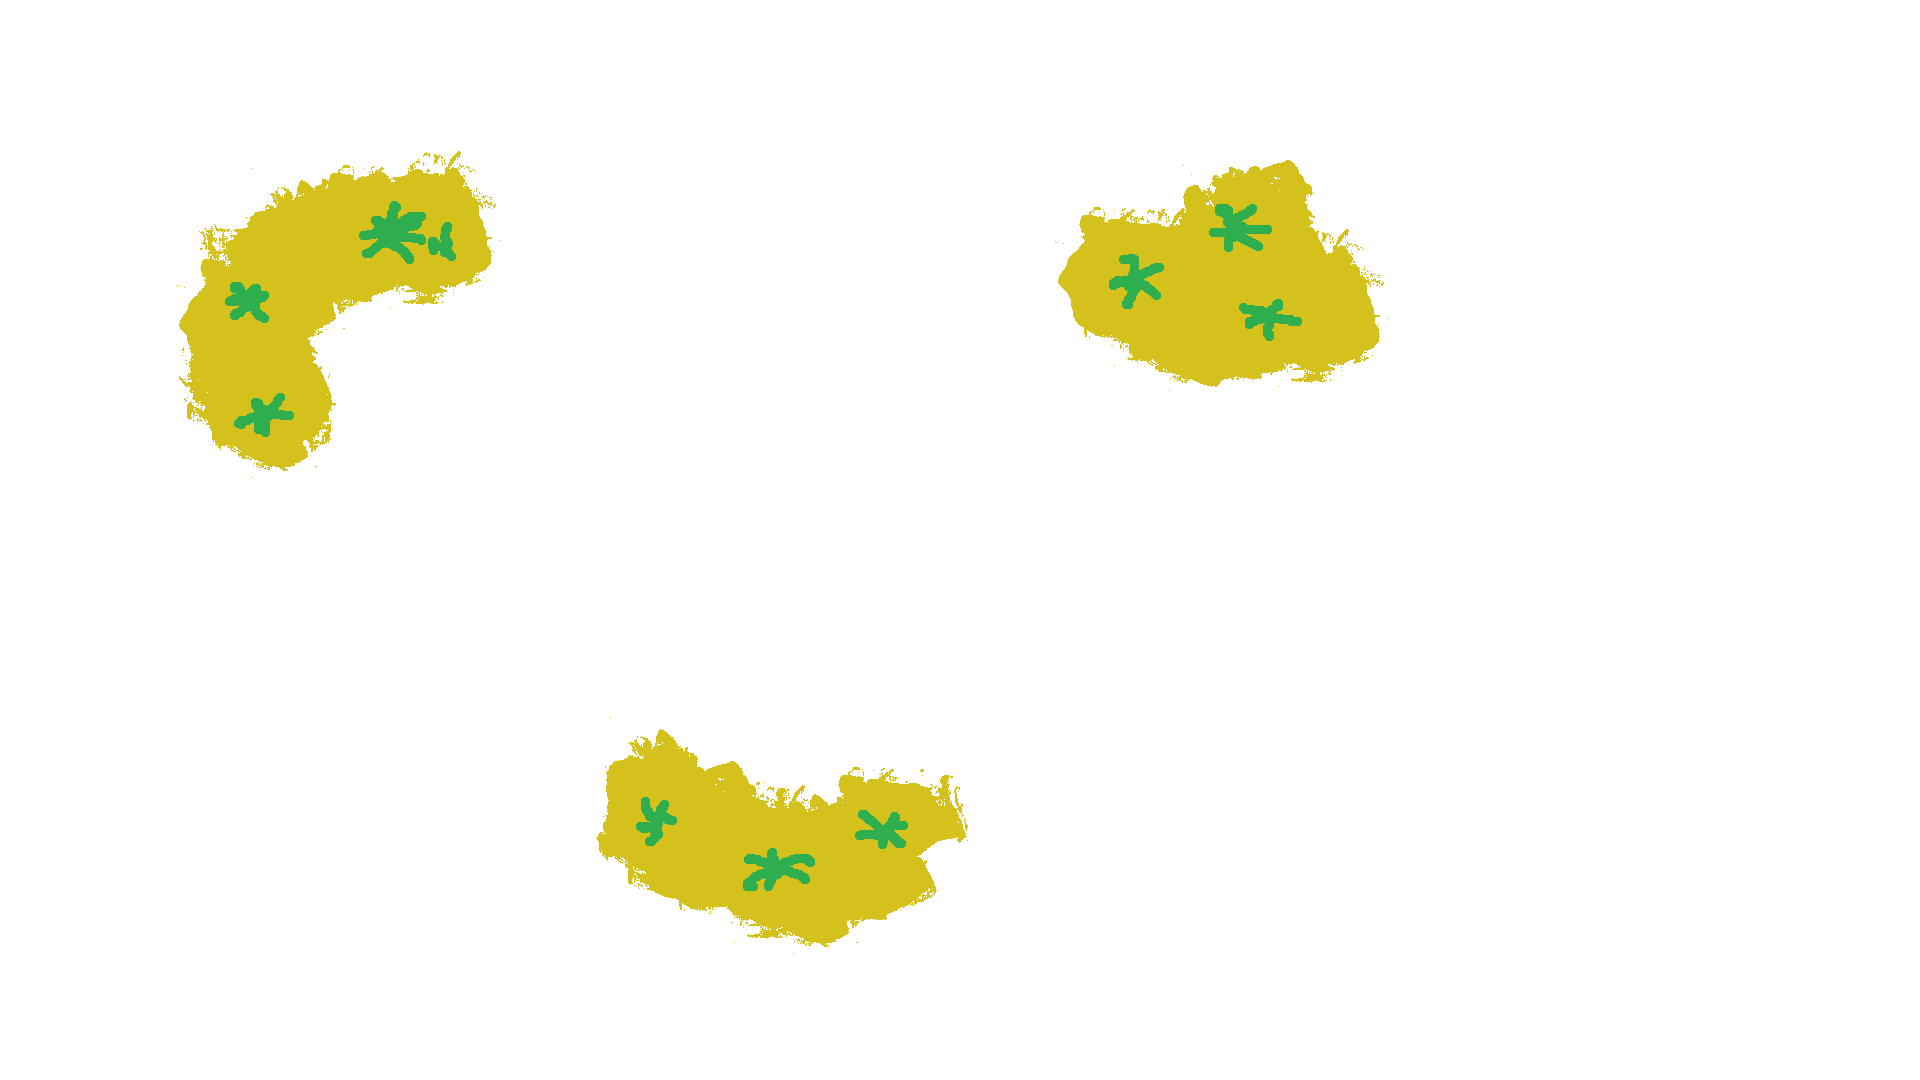
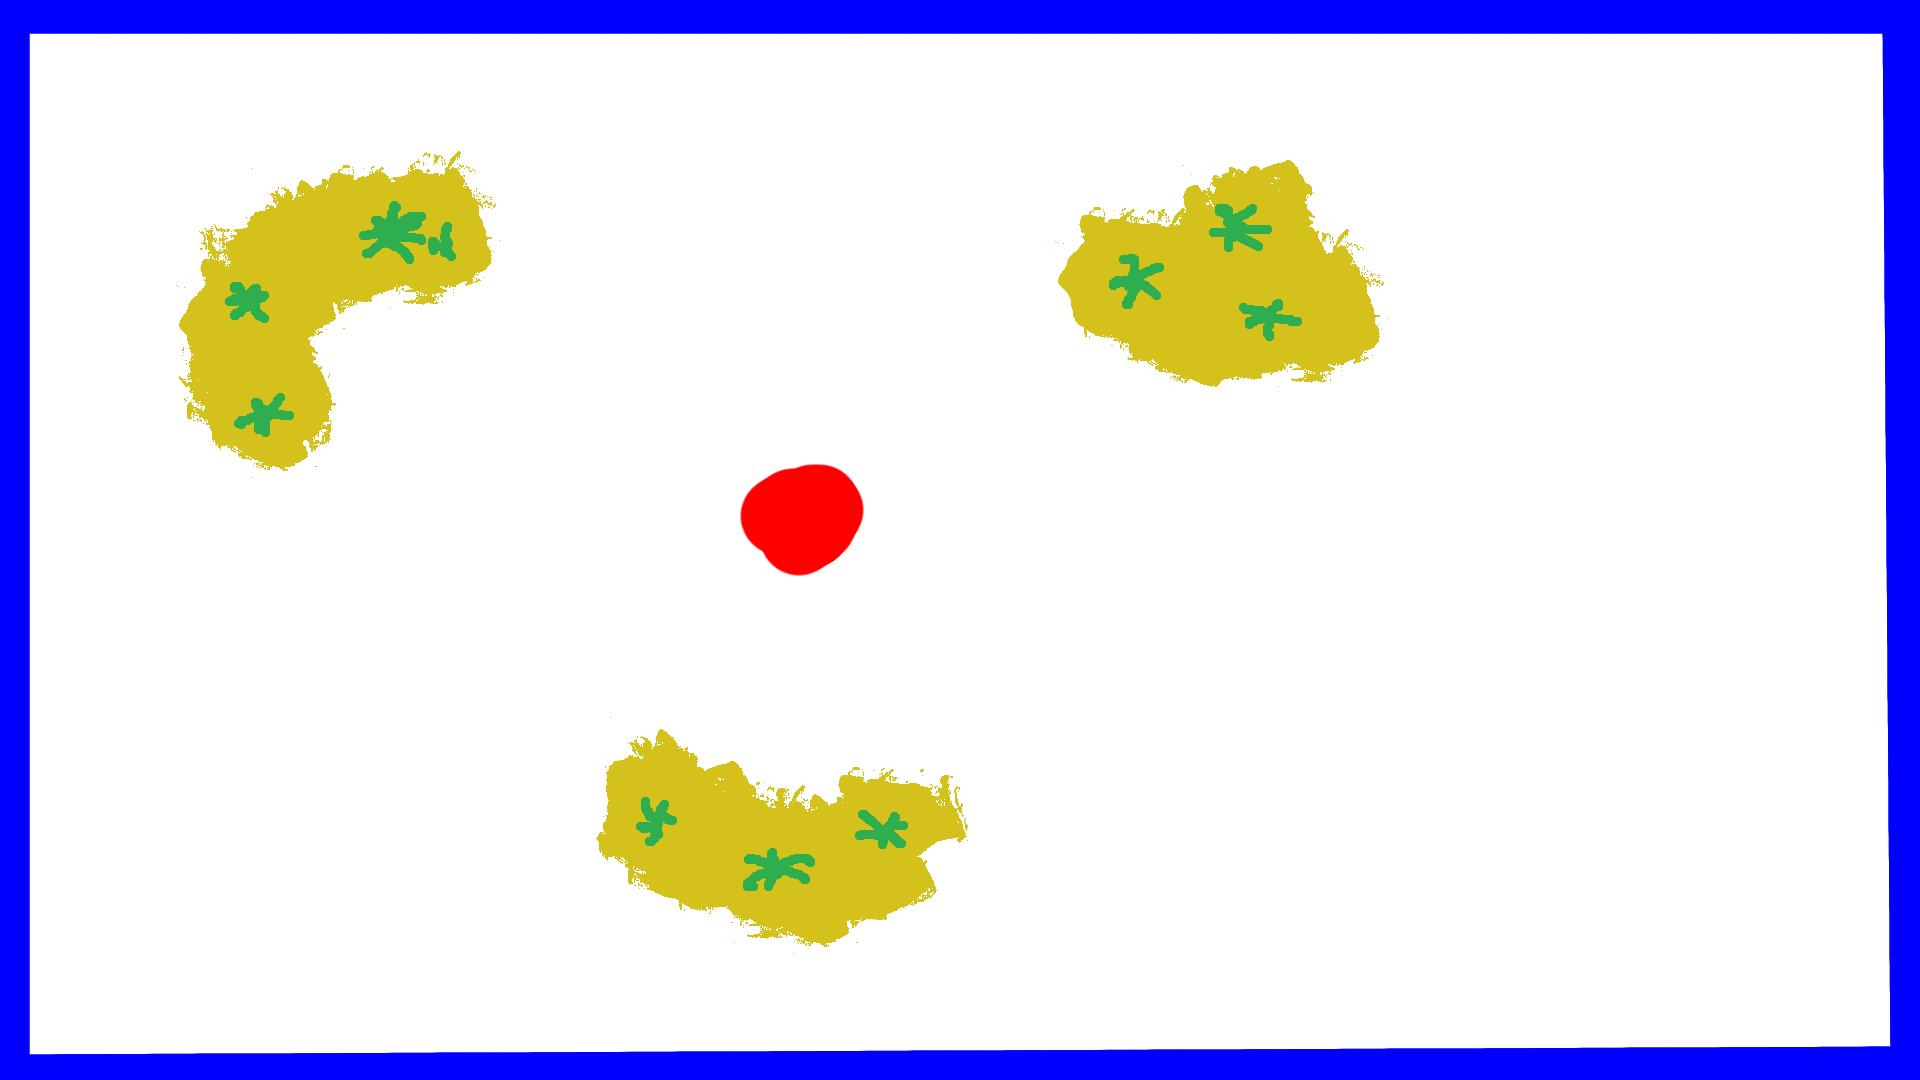
Initialization by image

Changed region(s): [[0.0, 0.0, 1.0, 1.0], [0.375, 0.4278, 0.4688, 0.55]]

diff --git a/src/LBM.cpp b/src/LBM.cpp
@@ -39,9 +39,9 @@ const float source[] = {
 };
 
 const float drain[] = {
-    0.6f/36.0f, 0.6f/9.0f, 0.6f/36.0f,
-    0.6f/9.0f,   5.0f/9.0f, 0.6f/9.0f,
-    0.6f/36.0f, 0.6f/9.0f, 0.6f/36.0f
+    0.5f/36.0f, 0.5f/9.0f, 0.5f/36.0f,
+    0.5f/9.0f,   5.0f/9.0f, 0.5f/9.0f,
+    0.5f/36.0f, 0.5f/9.0f, 0.5f/36.0f
 };
 }
 
@@ -91,6 +91,77 @@ LBM::LBM(size_t grid_width, size_t grid_height)
     local_size[1] = 16;
 
     do_clear();
+}
+
+LBM::LBM(QString path, size_t ratio) {
+
+    QImage image(path);
+
+    gridWidth = image.width()/ratio;
+    gridHeight = image.height()/ratio;
+    vel = Grid<Vec2D<float>> (gridWidth, gridHeight);
+    dens = Grid<float> (gridWidth, gridHeight);
+
+
+    // OpenCL initialization needs to be doen from the same thread that calls
+    // the kernels later
+    if( !OpenCLHelper::isOpenCLAvailable() ) {
+        cout << "opencl library not found" << endl;
+        exit(-1);
+    }
+
+    cl = new OpenCLHelper(0);
+    getVelocityKernel = cl->buildKernel("../src/getVelocity.cl",
+                                        "getVelocity");
+    getDensityKernel = cl->buildKernel("../src/getDensity.cl",
+                                       "getDensity");
+    simulationStepKernel = cl->buildKernel("../src/simulationStep.cl",
+                                           "simulationStep");
+
+    for( size_t i = 0; i < 9; i++) {
+        src[i] = cl->arrayFloat(gridWidth*gridHeight);
+        src[i]->createOnHost();
+        dst[i] = cl->arrayFloat(gridWidth*gridHeight);
+        dst[i]->createOnHost();
+    }
+    flag_field = cl->arrayInt(gridWidth*gridHeight);
+    flag_field->createOnHost();
+
+    global_size[0] = OpenCLHelper::roundUp(64, gridWidth);
+    global_size[1] = OpenCLHelper::roundUp(64, gridHeight);
+    local_size[0] = 16;
+    local_size[1] = 16;
+
+
+    for (size_t y = 0; y < gridHeight; ++y) {
+        for (size_t x = 0; x < gridWidth; ++x) {
+            size_t ix = x *ratio;
+            size_t iy = (gridHeight-y-1) * ratio;
+            
+            if( qAlpha( image.pixel(ix, iy)) == 0) {
+                setFields(x, y, fluid,  (int) cell_t::FLUID);                
+                
+            } else {
+                setFields(x, y, fluid,  (int) cell_t::NO_SLIP);                    
+                if( qRed( image.pixel(ix, iy)) == 255) {
+                    setFields(x, y, source,  (int) cell_t::SOURCE);
+                }
+                if( qGreen( image.pixel(ix, iy)) == 255) {
+                    setFields(x, y, drain,  (int) cell_t::SOURCE);
+                }
+                if( qBlue( image.pixel(ix, iy)) == 255) {
+                    setFields(x, y, fluid,  (int) cell_t::COPY);
+                }            
+            }
+        }
+    }
+
+    for(size_t i = 0; i < 9;i++) {
+        dst[i]->copyToDevice();
+        src[i]->copyToDevice();
+    }
+    flag_field->copyToDevice();
+
 }
 
 LBM::~LBM() {
@@ -154,7 +225,7 @@ void LBM::do_clear() {
         setFields(ix, gridHeight-1, fluid, (int) cell_t::NO_SLIP);
     }
 
-  
+
 
     for(size_t i = 0; i < 9;i++) {
         dst[i]->copyToDevice();
@@ -205,27 +276,5 @@ auto LBM::getDensity()  -> Grid<float>* {
 void LBM::setTypes(const Grid<cell_t>&) {
 }
 
-void LBM::loadByImage(QString path) {
-    QImage image(path);
-
-    for (size_t y = 1; y < gridHeight-1; ++y) {
-        for (size_t x = 1; x < gridWidth-1; ++x) {
-            size_t ix = x * image.width()/gridWidth;
-            size_t iy = image.height() -y * image.height()/gridHeight;
-                
-            if( qAlpha( image.pixel(ix, iy)) != 0) {
-                setFields(x, y, fluid,  (int) cell_t::NO_SLIP);
-            } 
-
-        }
-    }
-
-    for(size_t i = 0; i < 9;i++) {
-        dst[i]->copyToDevice();
-        src[i]->copyToDevice();
-    }
-    flag_field->copyToDevice();
-
-}
 
 }

diff --git a/include/LBM.hpp b/include/LBM.hpp
@@ -31,12 +31,14 @@ class LBM  {
     enum class cell_t : int {
         FLUID = 0,
         NO_SLIP = 1,
-        SOURCE = 2
+        SOURCE = 2,
+        COPY = 3
     };
 
 public:
     LBM();
     LBM(size_t grid_width, size_t grid_height);
+    LBM(QString path, size_t ratio);
     virtual ~LBM();
     void init();
     void one_iteration();
@@ -44,10 +46,10 @@ public:
     auto getVelocity() -> Grid<Vec2D<float>>*;
     auto getDensity()  -> Grid<float>*;
     void setTypes(const Grid<cell_t>& types);
-    void loadByImage(QString path);
+  
 
-    size_t const gridWidth;
-    size_t const gridHeight;
+    size_t gridWidth;
+    size_t gridHeight;
 private:
     void setFields(const size_t ix, const size_t iy,
                    const float* val, const int type);

diff --git a/src/Game_constructors.cpp b/src/Game_constructors.cpp
@@ -28,11 +28,10 @@ Game::Game(const QString& path, QWidget *parent)
                           QGL::DoubleBuffer), parent),
       velocity(NULL),      
       level_texture_path(path)
-      
-{
-    simulation = new LBM(320, 180);
-    simulation->loadByImage(path);
 
+{
+    simulation = new LBM(path, 8);
+ 
     entityClasses.push_back( Entity( Entity_Type::FOAM, "../data/foam.png"));
     entities.push_back( EntityInstance( &(entityClasses.back()), 10.0) );
     entities.push_back( EntityInstance( &(entityClasses.back()), 10.0) );
